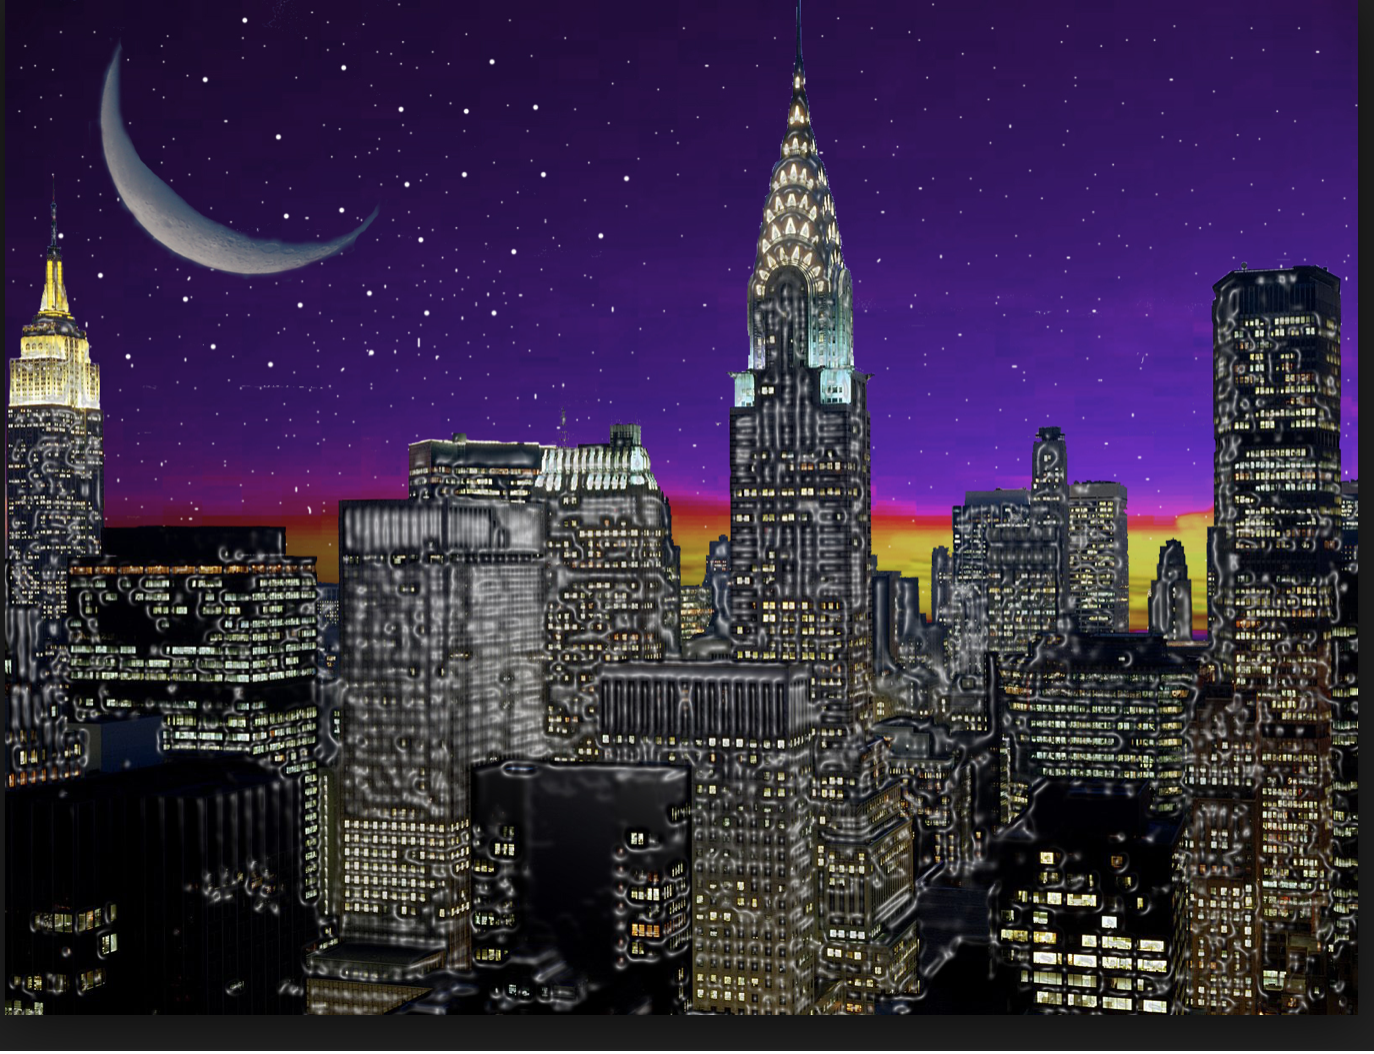
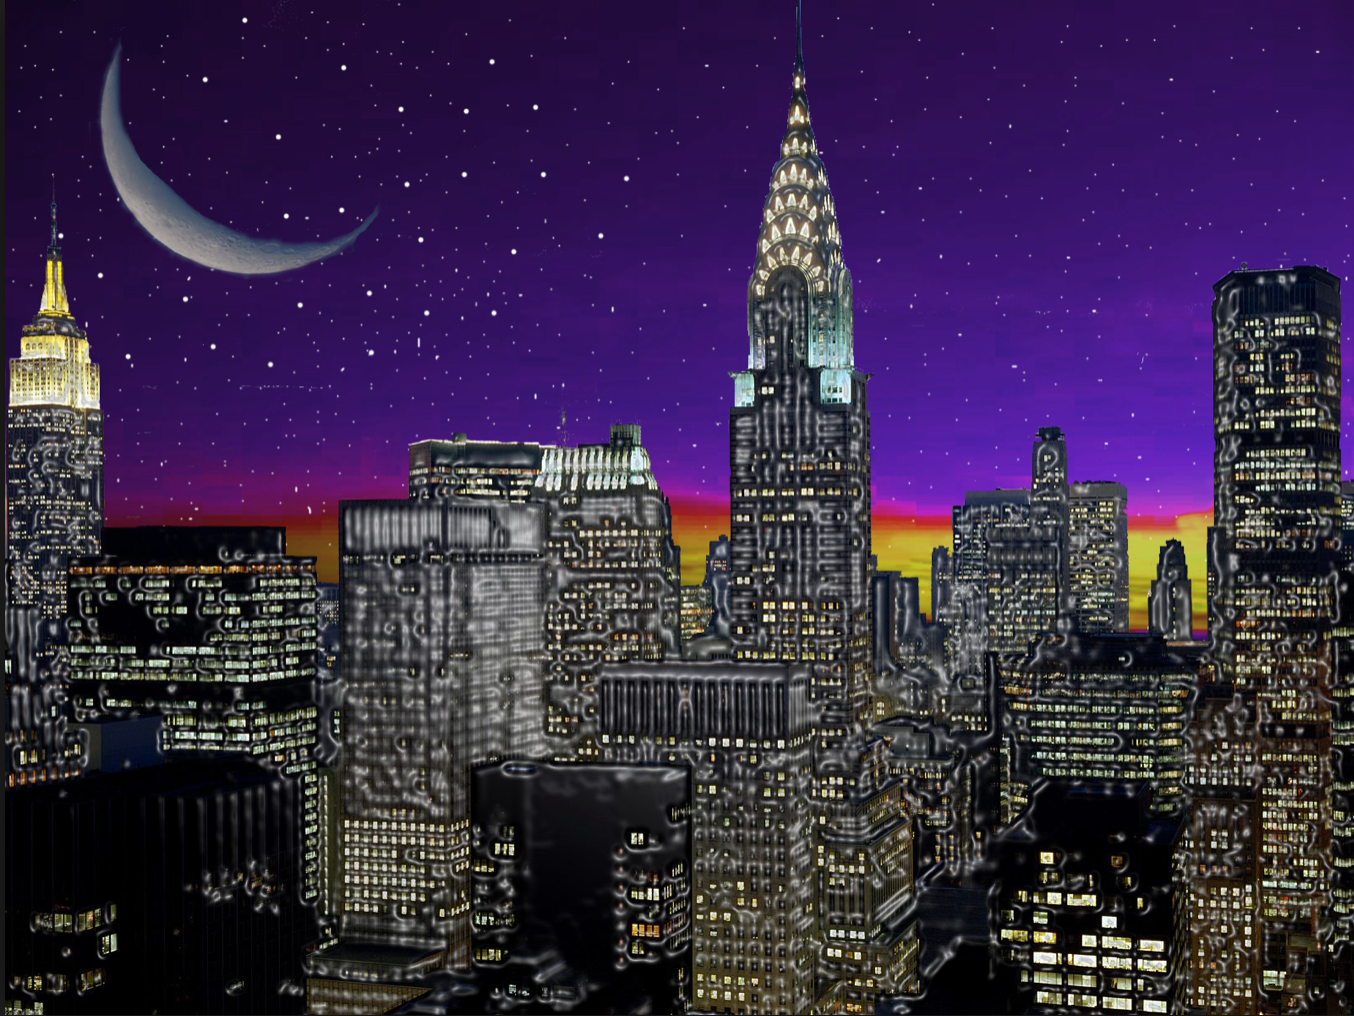
updated the gitignore to ignore the xcode user state

diff --git a/eatingClouds/eatingClouds/GameScene.swift b/eatingClouds/eatingClouds/GameScene.swift
@@ -37,20 +37,21 @@ class GameScene: SKScene, SKPhysicsContactDelegate {
         self.backgroundColor = backgroundColor
         
         //making a sun
-        let sunColor = SKColor(red: 255.0/255.0, green: 244.0/255.0, blue: 48.0/255.0, alpha: 1.0) as SKColor
-        let sunSize = CGSize(width: 50.0, height: 50.0)
-        let sun = SKSpriteNode(color: sunColor, size: sunSize)
-        
-        sun.position = CGPoint(x: self.frame.width * 0.8, y: self.frame.height * 0.8)
-        self.addChild(sun)
+//        let sunColor = SKColor(red: 255.0/255.0, green: 244.0/255.0, blue: 48.0/255.0, alpha: 1.0) as SKColor
+//        let sunSize = CGSize(width: 50.0, height: 50.0)
+//        let sun = SKSpriteNode(color: sunColor, size: sunSize)
+//
+//        sun.position = CGPoint(x: self.frame.width * 0.8, y: self.frame.height * 0.8)
+//        self.addChild(sun)
         
         // city image backgound
         // needs to fit better
-        let cityTexture = SKTexture(imageNamed: "./pics/NYskyline.png")
+        let cityTexture = SKTexture(imageNamed: "./pics/fullsize.png")
         cityTexture.filteringMode = .nearest
        
         let cityBackground = SKSpriteNode(texture: cityTexture)
-        cityBackground.position = CGPoint(x: 0.0, y: 0.0)
+        cityBackground.setScale((self.frame.size.height + 10) / cityBackground.size.height) // fits the height of screen
+        cityBackground.position = CGPoint(x: cityBackground.size.width * 0.5, y: cityBackground.size.height * 0.5 - 1)
         cityBackground.zPosition = -1
         self.addChild(cityBackground)
         
@@ -152,14 +153,13 @@ class GameScene: SKScene, SKPhysicsContactDelegate {
         }
     }
     
-    
     override func update(_ currentTime: TimeInterval) {
         // Called before each frame is rendered
-        if !inGame {
-            print("Not in game")
-        } else {
-            print("In game")
-        }
+//        if !inGame {
+//            print("Not in game")
+//        } else {
+//            print("In game")
+//        }
     }
     
     func isInContactWith(_ contact: SKPhysicsContact, bitmask: UInt32) -> Bool {
@@ -172,4 +172,5 @@ class GameScene: SKScene, SKPhysicsContactDelegate {
             inGame = false
         }
     }
+    
 }
